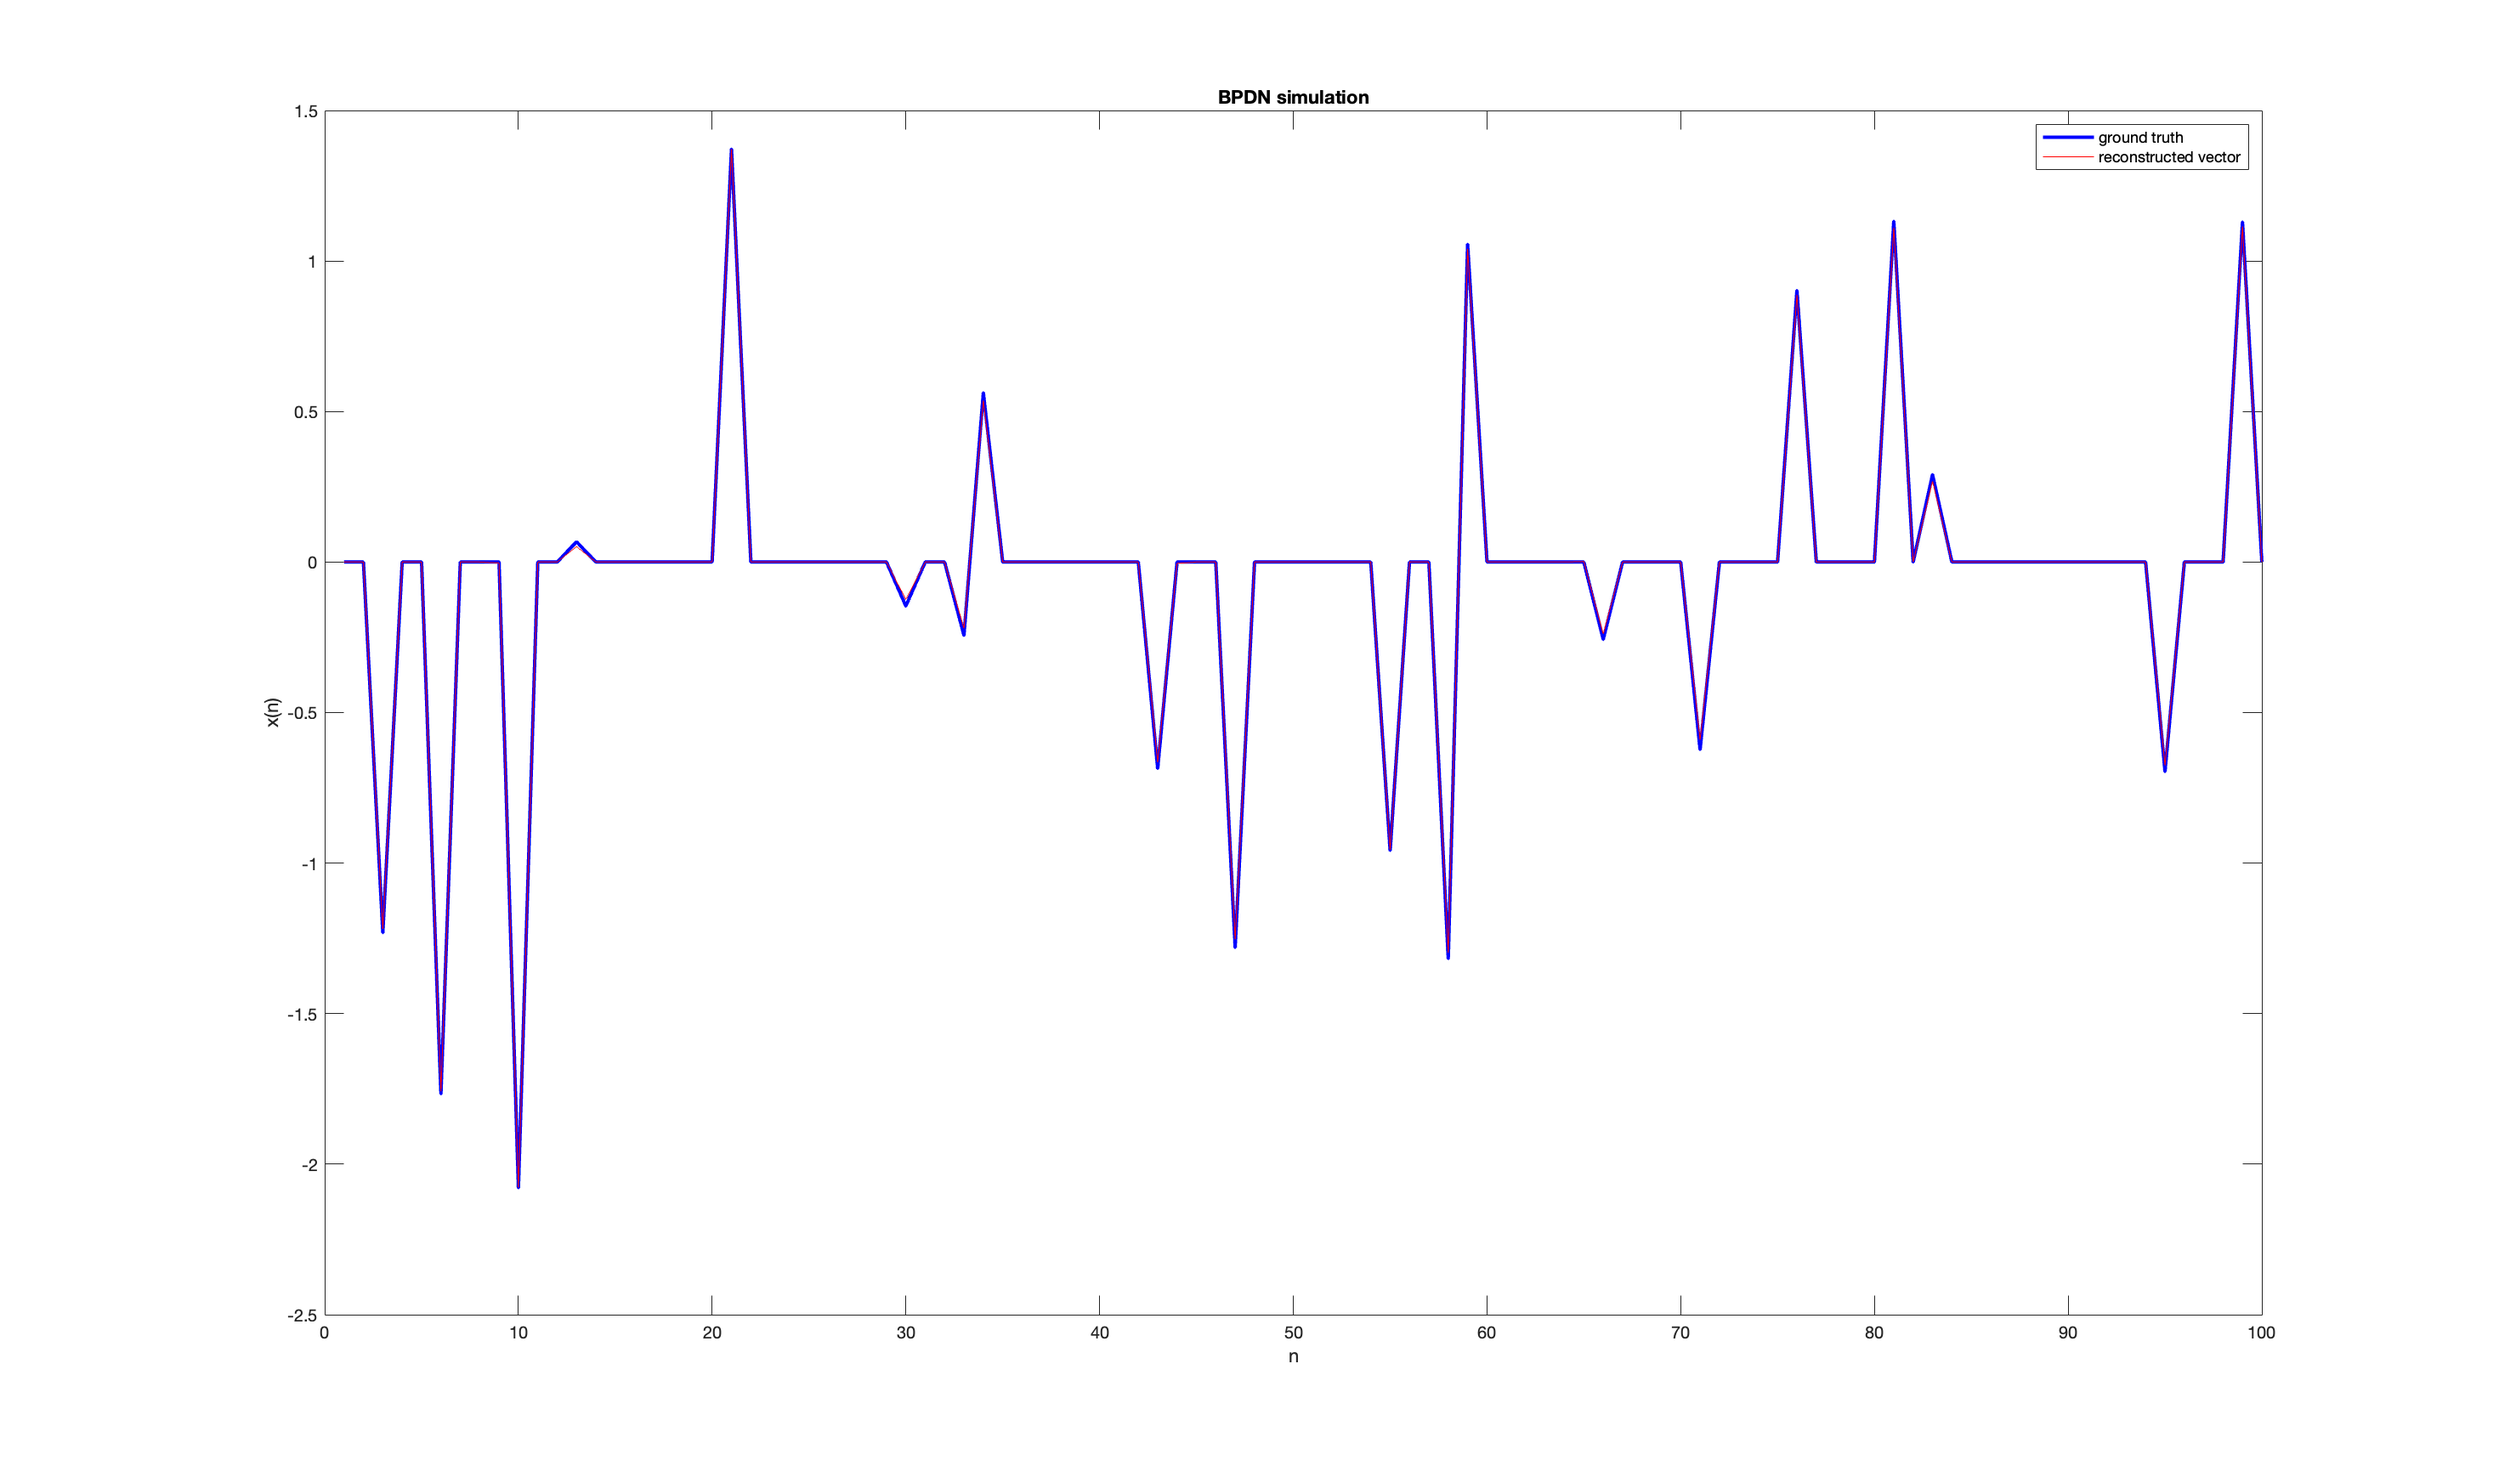
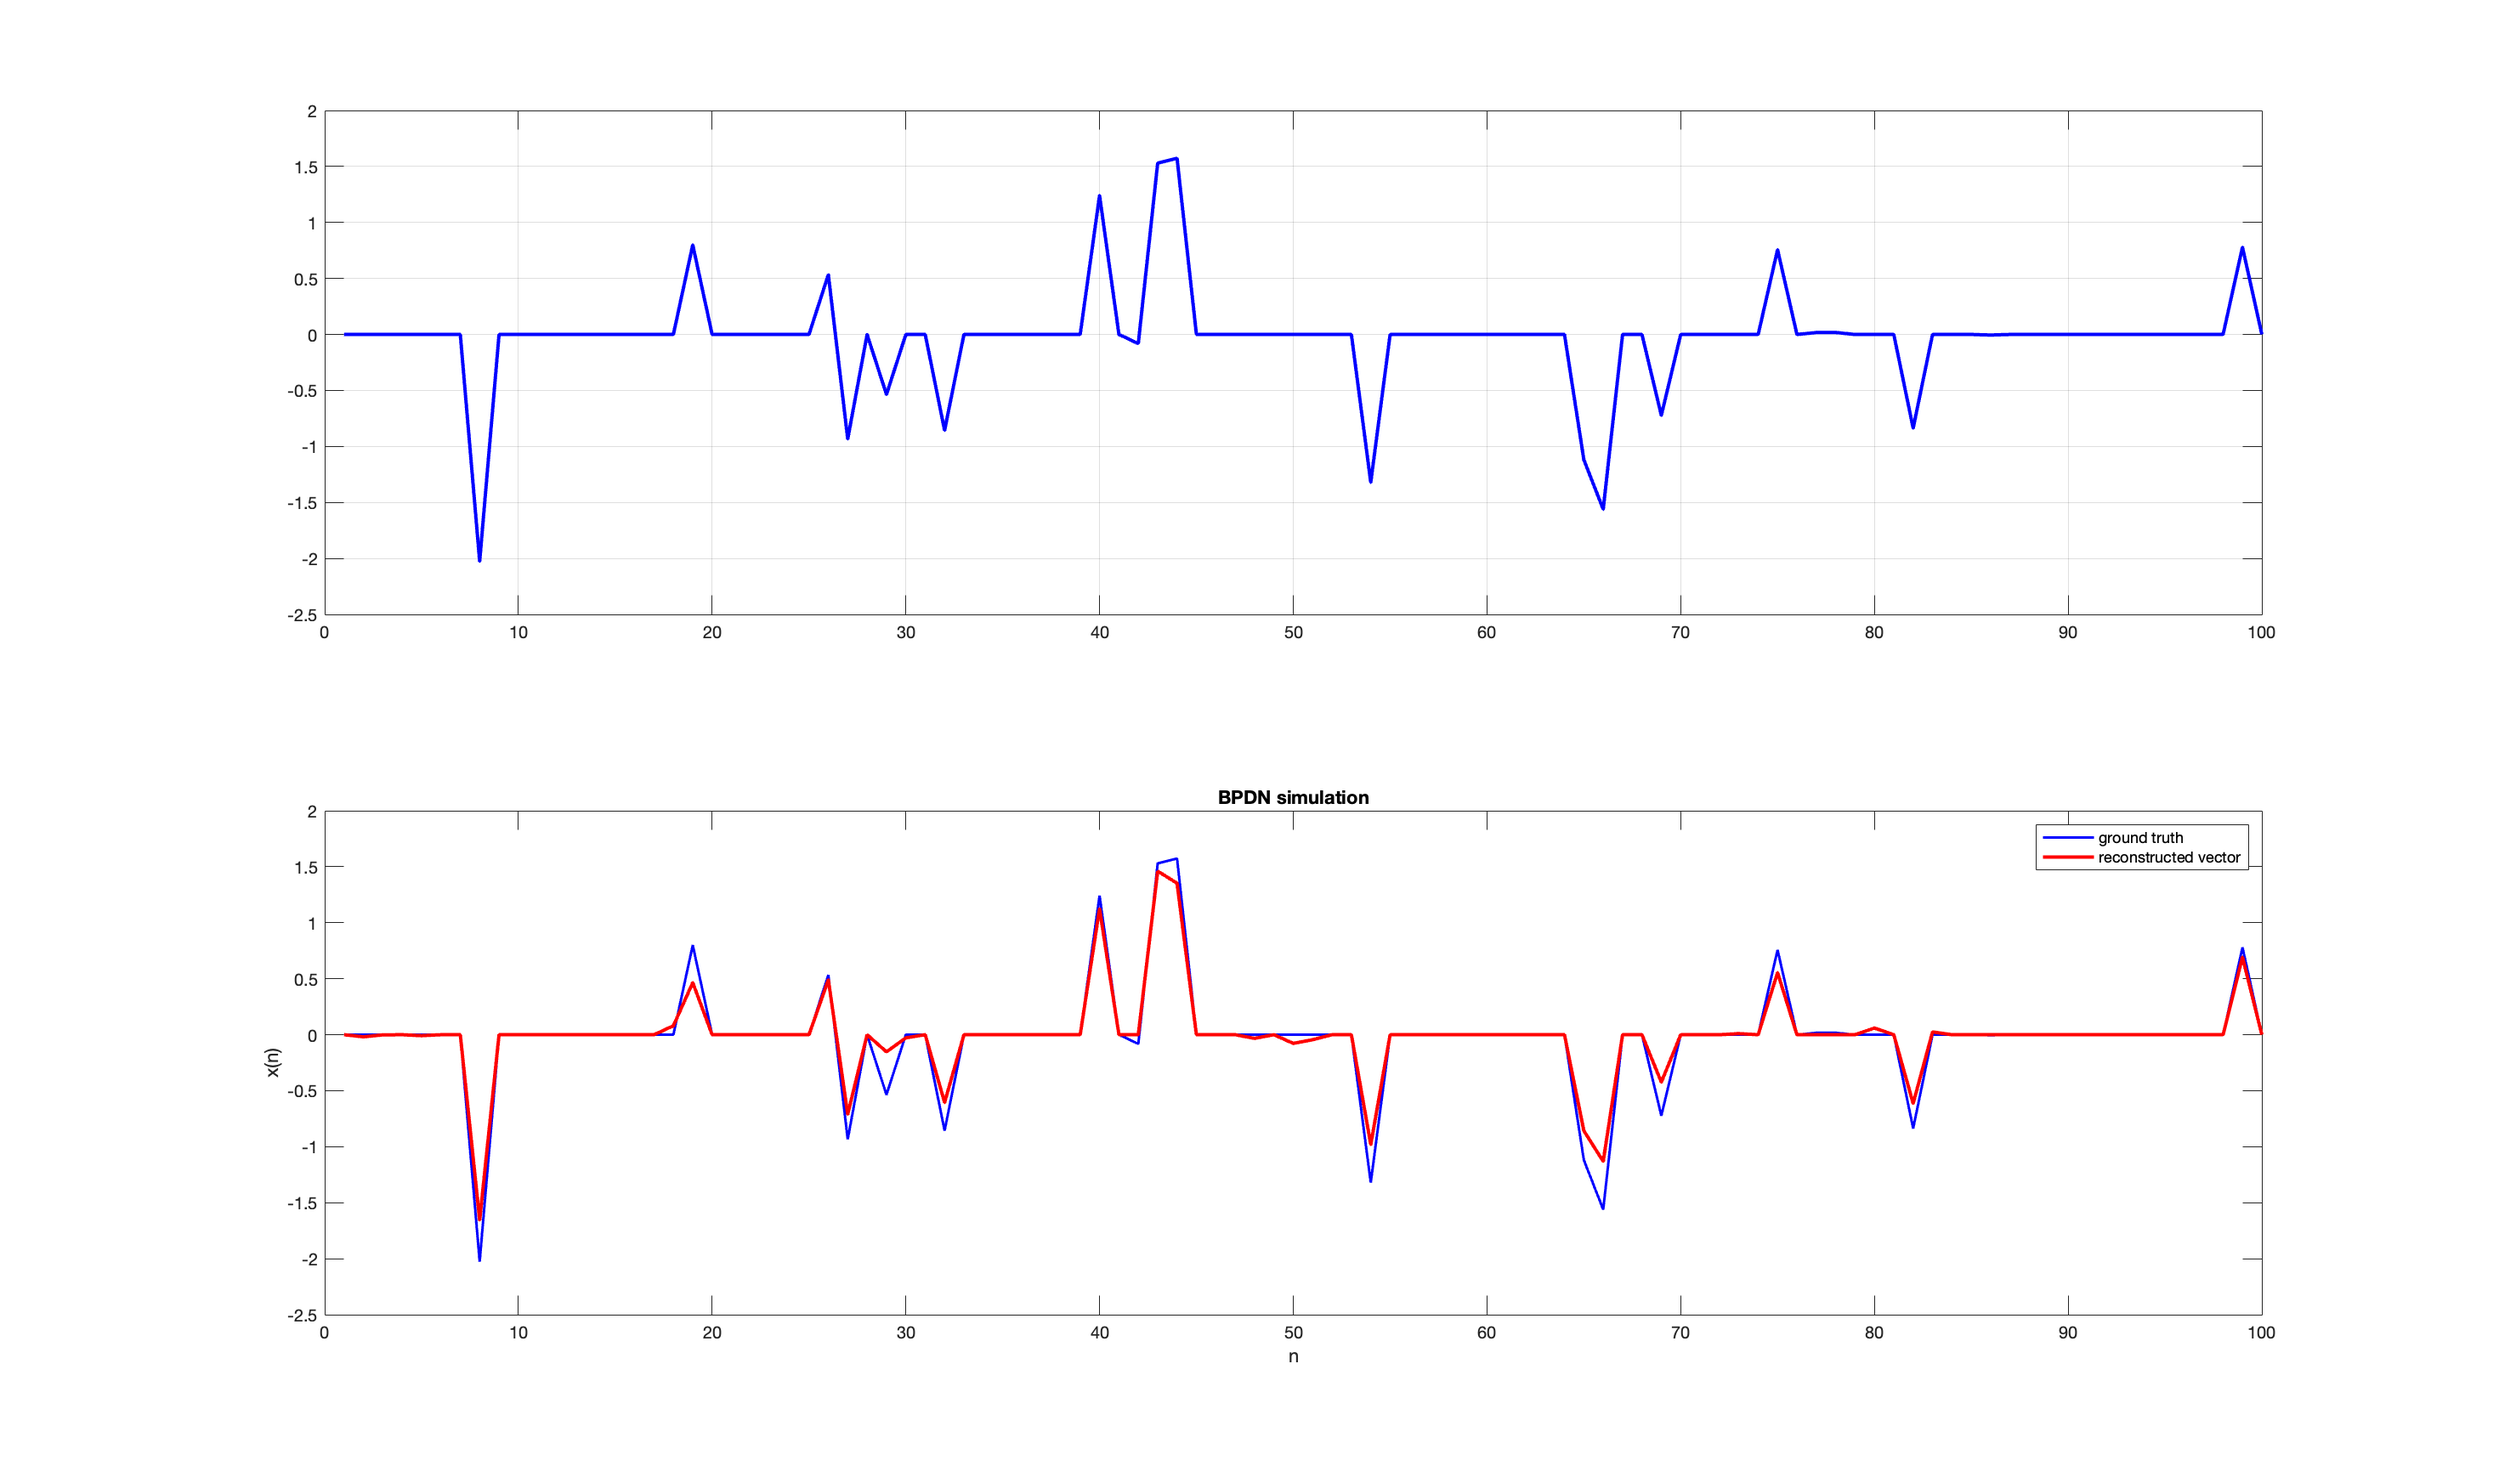
Updated normalised meas matrix and plots

diff --git a/A4_Ashwani_Kumar_23531002/lasso_sim.m b/A4_Ashwani_Kumar_23531002/lasso_sim.m
@@ -4,9 +4,9 @@ clear;
 
 N = 100;
 k = 20;  % Cardinality of supp(x)
-m = 200; % Overdetermined system as m>N
+m = 200; % Overdetermined system as (m > N)
 noise_variance = 0.01; % given S.D. of noise was 0.1
-tau = 20; % Change this value to get good reconstruction of x
+tau = 16;
 
 x = zeros(N,1);
 support = randperm(N,k);
@@ -16,15 +16,19 @@ x(support) = randn(k,1); % random k-sparse vector x generated
 
 
 e = sqrt(noise_variance) * randn(m,1); % noise generated
-A = sqrt(1/m)*randn(m,N); % Measurement matrix generated
+A = (1/sqrt(m))*randn(m,N); % Measurement matrix generated
 
 y = A*x + e;
 
 x_est = lasso(y,A,tau);
 
-figure;
-plot(1:N, x, 'b', 'linewidth', 2); hold on;
-plot(1:N, x_est, 'r');
+subplot(211);
+plot(1:N, x, 'b', 'linewidth', 2);
+grid on;
+
+subplot(212);
+plot(1:N, x, 'b', 'linewidth', 1.5); hold on;
+plot(1:N, x_est, 'r', 'linewidth', 2);
 legend('ground truth','reconstructed vector');
 xlabel('n');
 ylabel('x(n)');

diff --git a/A4_Ashwani_Kumar_23531002/bpdn_sim.m b/A4_Ashwani_Kumar_23531002/bpdn_sim.m
@@ -6,7 +6,7 @@ N = 100;
 k = 20;  % Cardinality of supp(x)
 m = 200; % Overdetermined system as m>N
 noise_variance = 0.01; % given S.D. of noise was 0.1
-lambda = 4; % Tweak this value to get good reconstruction of x
+lambda =0.25;
 
 x = zeros(N,1);
 support = randperm(N,k);
@@ -16,15 +16,19 @@ x(support) = randn(k,1); % random k-sparse vector x generated
 
 
 e = sqrt(noise_variance) * randn(m,1); % noise generated
-A = sqrt(1/m)*randn(m,N); % Measurement matrix generated
+A = (1/sqrt(m))*randn(m,N); % Measurement matrix generated
 
 y = A*x + e;
 
 x_est = bpdn(y,A,lambda);
 
-figure;
-plot(1:N, x, 'b', 'linewidth', 2); hold on;
-plot(1:N, x_est, 'r');
+subplot(211);
+plot(1:N, x, 'b', 'linewidth', 2);
+grid on;
+
+subplot(212);
+plot(1:N, x, 'b', 'linewidth', 1.5); hold on;
+plot(1:N, x_est, 'r', 'linewidth', 2);
 legend('ground truth','reconstructed vector');
 xlabel('n');
 ylabel('x(n)');

diff --git a/A4_Ashwani_Kumar_23531002/qcbp_sim.m b/A4_Ashwani_Kumar_23531002/qcbp_sim.m
@@ -6,7 +6,7 @@ N = 100;
 k = 20;  % Cardinality of supp(x)
 m = 200; % Overdetermined system as m>N
 noise_variance = 0.01; % given S.D. of noise was 0.1
-alpha = 1.5;     % Change this value to get good reconstruction of x
+alpha = 1.45;
 eta = alpha * m * noise_variance;
 
 x = zeros(N,1);
@@ -17,16 +17,21 @@ x(support) = randn(k,1); % random k-sparse vector x generated
 
 
 e = sqrt(noise_variance) * randn(m,1); % noise generated
-A = sqrt(1/m)*randn(m,N); % Measurement matrix generated
+A = (1/sqrt(m))*randn(m,N); % Measurement matrix generated
 
 y = A*x + e;
 
 x_est = qcbp(y,A,eta);
 
-figure;
+subplot(211);
+plot(1:N, x, 'b', 'linewidth', 2);
+grid on;
+
+subplot(212);
 plot(1:N, x, 'b', 'linewidth', 2); hold on;
 plot(1:N, x_est, 'r');
 legend('ground truth','reconstructed vector');
 xlabel('n');
 ylabel('x(n)');
 title('QCBP simulation');
+grid on;
